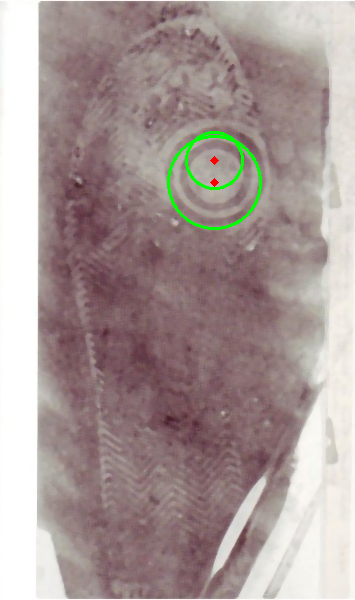
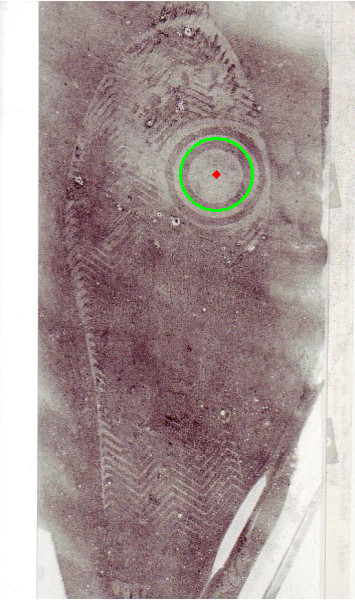
hw3

diff --git a/hw3/hough_circle_detect.py b/hw3/hough_circle_detect.py
@@ -1,0 +1,81 @@
+import cv2 as cv
+import numpy as np
+
+def hough_circle(edges, r_min, r_max, threshold,region):
+    M, N = edges.shape
+    print(M,N)
+    cv.imwrite("output/edge.png", edges)
+    # extract edges coordinate
+    edges = np.argwhere(edges[:,:])
+    # print(type(edges), edges.shape)
+
+    # accumulator matrix A[a, b, r]
+    A = np.zeros((M+2*r_max, N+2*r_max, r_max))
+    B = np.zeros((M+2*r_max, N+2*r_max, r_max))
+
+    # pre calculate theta
+    theta = np.arange(0,360)*np.pi/180
+
+    #voting
+    for r in range(r_min, r_max, 1):
+        m, n = r+1, r+1
+        bprint = np.zeros((2*m, 2*n))
+        for t in theta:
+            i = int(np.round(r*np.cos(t)))
+            j = int(np.round(r*np.sin(t)))
+            bprint[m+i, n+j] = 1
+        constant = np.argwhere(bprint).shape[0]
+        for x,y in edges:
+            A[x-m+r_max:x+m+r_max, y-n+r_max:y+n+r_max, r] += bprint
+        A[r][A[r]<threshold*constant/r] = 0
+        
+
+    return B[r_max:-r_max, r_max:-r_max, :]
+
+
+def hough_circle_foo(edges, r_min, r_max, threshold, region):
+    M, N = edges.shape
+    x_min, x_max, y_min, y_max = region
+    # extract edges coordinate
+    edges = np.argwhere(edges[:,:])
+    edges = [(x, y) for x, y in edges if x>x_min and x<x_max and y<y_max and y>y_min]
+    # accumulator matrix A[a, b, r]
+    A = np.zeros((M+2*r_max, N+2*r_max, r_max))
+
+    # pre calculate theta
+    theta = np.arange(0,360)*np.pi/180
+
+    #voting
+    for r in range(r_min, r_max, 1):
+        for t in theta:
+            for x,y in edges:
+                a = x - int(np.round(r * np.cos(t)))
+                b = y - int(np.round(r * np.sin(t)))
+                A[a, b, r] += 1
+        print(r, np.max(A), np.where(A==np.max(A)))
+    circles = np.argwhere(A > np.max(A)*threshold)
+    return circles    
+
+
+
+          
+
+if __name__ == "__main__":
+    cimg = cv.imread("shoeprint/circle.png")
+    gray = cv.cvtColor(cimg, cv.COLOR_BGR2GRAY)
+    gray = cv.GaussianBlur(gray, (5,5),0)
+    edges = cv.Canny(gray, 60, 110) 
+    print(edges.shape)
+    cv.imwrite("output/edges.png", edges)
+    np.savetxt('output/edges.txt', edges)
+     
+    circles = hough_circle_foo(edges, 30, 51, 0.8, (120,230,160,270)) 
+    np.save("output/circles", circles)
+
+    for a, b, r in circles:
+        cv.circle(cimg, (b, a), r, (0,255,0), 1, lineType=4)
+        cv.circle(cimg, (b, a), 1, (0, 0, 255), 3)
+    
+    cv.imwrite("output/hough_circle.png", cimg)
+    
+    

diff --git a/hw3/cht.py b/hw3/cht.py
@@ -2,17 +2,17 @@ import cv2 as cv
 import numpy as np
 
 if __name__ == "__main__":
-    img = cv.imread("shoeprint/circle.png")
-    #img = cv.GaussianBlur(img, (5,5), 0)
+    cimg = cv.imread("shoeprint/circle.png")
+    # img = cv.GaussianBlur(img, (5,5), 0)
+    img = cv.cvtColor(cimg, cv.COLOR_BGR2GRAY)
     img = cv.medianBlur(img, 5)
-    #cimg = cv.cvtColor(img, cv.COLOR_GRAY2BGR)
     edges = cv.Canny(img, 120, 180)
     cv.imwrite("output/edge.png", edges)
     cv.imwrite("output/smoothed.png", img)
 
-    cimg = img
-    circles = cv.HoughCircles(edges, cv.HOUGH_GRADIENT, 1, 20,
-                             param1=50, param2=30, minRadius=0, maxRadius=0)
+    #cimg = img
+    circles = cv.HoughCircles(img, cv.HOUGH_GRADIENT, 1, 20,
+                             param1=100, param2=100, minRadius=0, maxRadius=0)
     circles = np.uint16(np.around(circles))
     for i in circles[0, :]:
         cv.circle(cimg, (i[0], i[1]), i[2], (0, 255, 0),2)

diff --git a/hw3/test.py b/hw3/test.py
@@ -1,0 +1,6 @@
+import cv2 as cv
+
+if __name__ == "__main__":
+    img = cv.imread("shoeprint/circle.png")
+    cv.circle(img, (210, 170), 1, (0,0,255), 3)
+    cv.imwrite("output/draw_circle_test.png", img)
